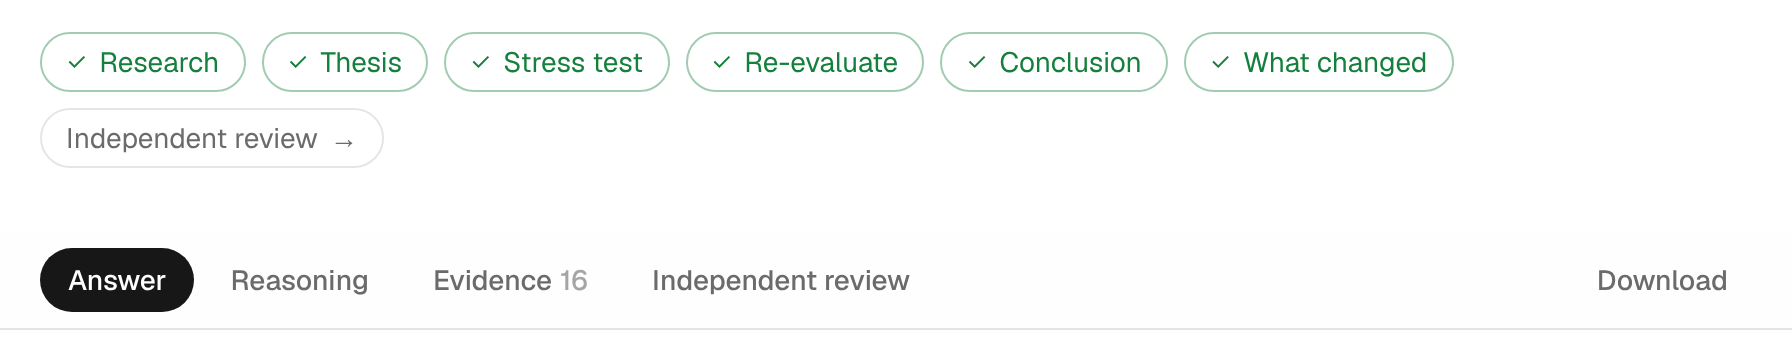
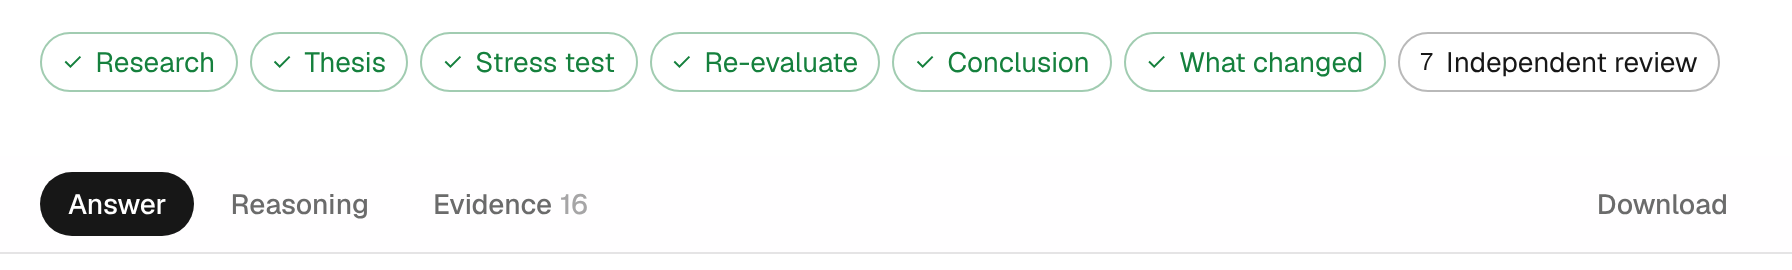
feat(s2): Independent review as the 7th step after What changed
- In the progress row, in the same style as the other steps (green check once the verdict is in);
  clicking it opens the review section at the end of the Answer view
- Remove the fourth tab; the tab bar is back to Answer, Reasoning and Evidence
- README text and the report-top screenshot updated to match

diff --git a/src/components/workstation.tsx b/src/components/workstation.tsx
@@ -76,7 +76,10 @@ function Bullets({ items }: { items: string[] }) {
   );
 }
 
-/** The progress row's Independent review link opens the workstation's review tab. */
+/**
+ * Independent review is the step after What changed. Its panel sits at the end of the Answer
+ * view, so clicking the step switches to Answer before scrolling to it.
+ */
 const SHOW_REVIEW = "crux:show-review";
 function showReview(event: MouseEvent<HTMLAnchorElement>) {
   event.preventDefault();
@@ -87,14 +90,14 @@ function showReview(event: MouseEvent<HTMLAnchorElement>) {
 export function Progress({ project, active, reviewable = false }: { project: ResearchProject | null; active: Stage | null; reviewable?: boolean }) {
   const done = new Set(project?.audit.map((a) => a.stage));
   return (
-    <ol className="flex flex-wrap gap-2 text-sm" aria-label="Pipeline progress">
+    <ol className="flex flex-wrap gap-1.5 text-sm" aria-label="Pipeline progress">
       {STAGES.map((s, i) => {
         const state = done.has(s.key) ? "done" : active === s.key ? "active" : "waiting";
         return (
           <li
             key={s.key}
             aria-current={state === "active" ? "step" : undefined}
-            className={`flex items-center gap-1.5 rounded-full border px-3 py-1 ${
+            className={`flex items-center gap-1.5 rounded-full border px-2.5 py-1 ${
               state === "done" ? "border-good/40 text-good" : state === "active" ? "animate-pulse border-foreground/40" : "border-line text-muted"
             }`}
           >
@@ -105,8 +108,17 @@ export function Progress({ project, active, reviewable = false }: { project: Res
       })}
       {reviewable && project?.status === "complete" && project.mode === "live" && (
         <li>
-          <a href="#independent-review" onClick={showReview} className="inline-flex items-center gap-1.5 rounded-full border border-line px-3 py-1 text-muted transition hover:border-foreground/40 hover:text-foreground">
-            Independent review <span aria-hidden="true">→</span>
+          <a
+            href="#independent-review"
+            onClick={showReview}
+            className={`flex items-center gap-1.5 rounded-full border px-2.5 py-1 transition ${
+              project.reppo?.status === "settled"
+                ? "border-good/40 text-good"
+                : "border-foreground/30 text-foreground hover:border-foreground/60"
+            }`}
+          >
+            <span className="font-mono text-xs">{project.reppo?.status === "settled" ? "✓" : STAGES.length + 1}</span>
+            Independent review
           </a>
         </li>
       )}
@@ -117,7 +129,7 @@ export function Progress({ project, active, reviewable = false }: { project: Res
 // ---------------------------------------------------------------------------------------
 // Views and the "Evidence" link that ties them together
 
-type View = "answer" | "reasoning" | "evidence" | "review";
+type View = "answer" | "reasoning" | "evidence";
 type Focus = { label: string; claimIds: string[] } | null;
 type Nav = {
   project: ResearchProject;
@@ -150,11 +162,10 @@ function EvidenceLink({ label, ids = [], text = "" }: { label: string; ids?: str
   );
 }
 
-const VIEWS: { key: View; label: string; short?: string }[] = [
+const VIEWS: { key: View; label: string }[] = [
   { key: "answer", label: "Answer" },
   { key: "reasoning", label: "Reasoning" },
   { key: "evidence", label: "Evidence" },
-  { key: "review", label: "Independent review", short: "Review" },
 ];
 
 /** `downloadable` is off while a run is still streaming, so nobody saves half a report. */
@@ -168,13 +179,11 @@ export function Workstation({ project, downloadable = true, reviewAvailable = tr
     if (next !== "evidence") setFocus(null);
     top.current?.scrollIntoView({ behavior: "smooth", block: "start" });
   };
-  // The review tab only exists where a review can be requested or one is already saved.
-  const reviewShown = project.mode === "live" && project.status === "complete" && (reviewAvailable || Boolean(project.reppo));
   useEffect(() => {
     const open = () => {
-      setView("review");
+      setView("answer");
       setFocus(null);
-      top.current?.scrollIntoView({ behavior: "smooth", block: "start" });
+      requestAnimationFrame(() => document.getElementById("independent-review")?.scrollIntoView({ behavior: "smooth", block: "start" }));
     };
     window.addEventListener(SHOW_REVIEW, open);
     return () => window.removeEventListener(SHOW_REVIEW, open);
@@ -199,26 +208,19 @@ export function Workstation({ project, downloadable = true, reviewAvailable = tr
         <div ref={top} className="scroll-mt-4">
           <PrintHeader project={project} />
           <div className="sticky top-0 z-10 -mx-5 mb-6 flex items-center gap-2 border-b border-line bg-background/90 px-5 py-2 backdrop-blur print:hidden">
-            <nav className="flex min-w-0 gap-0.5 overflow-x-auto [scrollbar-width:none] sm:gap-1" aria-label="Report views">
-              {VIEWS.filter((v) => v.key !== "review" || reviewShown).map((v) => (
+            <nav className="flex gap-1" aria-label="Report views">
+              {VIEWS.map((v) => (
                 <button
                   key={v.key}
                   type="button"
                   aria-current={view === v.key ? "page" : undefined}
                   onClick={() => go(v.key)}
-                  className={`shrink-0 whitespace-nowrap rounded-full px-2 py-1.5 text-[13px] font-medium transition sm:px-3.5 sm:text-sm ${
+                  className={`rounded-full px-3 py-1.5 text-sm font-medium transition max-[359px]:px-2.5 sm:px-3.5 ${
                     view === v.key ? "bg-foreground text-background" : "text-muted hover:text-foreground"
                   }`}
                 >
-                  {v.short ? (
-                    <>
-                      <span className="max-sm:hidden">{v.label}</span>
-                      <span className="sm:hidden">{v.short}</span>
-                    </>
-                  ) : (
-                    v.label
-                  )}
-                  {v.key === "evidence" && project.research ? <span className="ml-1 opacity-60 max-[400px]:hidden">{project.research.claims.length}</span> : null}
+                  {v.label}
+                  {v.key === "evidence" && project.research ? <span className="ml-1 opacity-60 max-[359px]:hidden">{project.research.claims.length}</span> : null}
                 </button>
               ))}
             </nav>
@@ -227,6 +229,7 @@ export function Workstation({ project, downloadable = true, reviewAvailable = tr
 
           <div className={panel("answer")}>
             <AnswerView project={project} />
+            <ReppoReviewPanel project={project} available={reviewAvailable} />
           </div>
           <div className={`${panel("reasoning")} print:mt-12`}>
             <ReasoningView project={project} />
@@ -234,11 +237,7 @@ export function Workstation({ project, downloadable = true, reviewAvailable = tr
           <div className={`${panel("evidence")} print:mt-12`}>
             <EvidenceView project={project} focus={focus} clearFocus={() => setFocus(null)} />
           </div>
-          {reviewShown && (
-            <div className={view === "review" ? "block" : "hidden"}>
-              <ReppoReviewPanel project={project} available={reviewAvailable} />
-            </div>
-          )}
+
         </div>
       </NavCtx.Provider>
     </RefsProvider>
@@ -276,7 +275,7 @@ function Downloads({ project }: { project: ResearchProject }) {
   }
 
   return (
-    <div className="ml-auto flex shrink-0 items-center gap-1">
+    <div className="ml-auto flex items-center gap-1">
       {failed && <span className="text-xs text-bad">PDF failed, try again</span>}
       <button
         type="button"

diff --git a/src/components/reppo-review.tsx b/src/components/reppo-review.tsx
@@ -45,7 +45,7 @@ export function ReppoReviewPanel({ project, available }: { project: ResearchProj
     finally { setBusy(false); }
   }
   return (
-    <section id="independent-review" className="scroll-mt-24 rounded-xl border border-line p-4 sm:p-5" aria-label="Independent research review">
+    <section id="independent-review" className="mt-6 scroll-mt-24 rounded-xl border border-line p-4 sm:p-5" aria-label="Independent research review">
       <h2 className="text-lg font-semibold">Independent review</h2>
       <p className="mt-2 text-sm text-muted">Powered by Reppo. An independent evaluation of the research and its reasoning, not proof that every fact is correct.</p>
       {!available ? (

diff --git a/README.md b/README.md
@@ -31,7 +31,7 @@ Built on [SERV Reasoning](https://docs.openserv.ai/serv-reasoning/why) (OpenServ
 
    About a minute in total, 6 SERV calls and 12 Tavily searches. The report is saved, so it can be reopened and reviewed later.
 4. Read the **Answer**, then open **Reasoning** and **Evidence**. Anything backed by facts has an **Evidence** link that opens just those facts.
-5. Open **Independent review**, the fourth tab (or the link after **What changed**), to send the report to Reppo and read its verdict.
+5. Click **Independent review**, the 7th step after **What changed**, to send the report to Reppo and read its verdict.
 6. Choose **Download** for the report as a PDF.
 
 ## The problem
@@ -86,7 +86,7 @@ Evidence links elsewhere in the report open this view filtered to the facts behi
 
 ### Independent review
 
-Crux's own stress test is SERV checking SERV. The **Independent review** tab sends the finished report to Reppo, whose evaluators judge the reasoning from outside, against five criteria:
+Crux's own stress test is SERV checking SERV. **Independent review**, the step after What changed, sends the finished report to Reppo, whose evaluators judge the reasoning from outside, against five criteria:
 
 1. Do the cited quotes support the report's key claims, without unsupported leaps?
 2. Does the stress test fairly address the strongest counter-evidence, risks and other explanations?
@@ -96,13 +96,13 @@ Crux's own stress test is SERV checking SERV. The **Independent review** tab sen
 
 How it works on a report:
 
-1. Open **Independent review**, enter the owner key, tick consent and choose **Request Reppo review**.
+1. Click **Independent review** in the steps at the top, enter the owner key, tick consent and choose **Request Reppo review**.
 2. Crux sends Reppo a compact trace of the report: the question, the thesis and its assumptions, the challenges, the re-evaluation, the conclusion, a balanced sample of facts with their quotes, and the source list.
 3. Reppo's evaluation takes at least 10 minutes. **Check for verdict** fetches it: accept, revise or reject, with a score, a confidence and a critique for each criterion. It's saved with the report.
 
 A verdict is independent feedback on the reasoning, not proof that every fact is correct.
 
-![The top of a report: the six stages, the Independent review link after What changed, and the Independent review tab](docs/screenshots/s2-report-after.png)
+![The top of a report: Research, Thesis, Stress test, Re-evaluate, Conclusion, What changed, then Independent review](docs/screenshots/s2-report-after.png)
 
 ### PDF report
 
@@ -133,13 +133,13 @@ Now that Crux is integrated with Reppo (Season 2), the report doesn't stop there
 
 **2. The top of a report**
 
-The first Crux ends at **What changed**, with three tabs:
+The first Crux ends at **What changed**:
 
-![The first Crux: the six stages ending at What changed, and the Answer, Reasoning and Evidence tabs](docs/screenshots/s2-report-before.png)
+![The first Crux: the six stages ending at What changed](docs/screenshots/s2-report-before.png)
 
-Crux with Reppo adds **Independent review** after What changed, and as a fourth tab:
+Crux with Reppo adds **Independent review** as the 7th step, right after What changed:
 
-![Crux with Reppo: the six stages, an Independent review link after What changed, and a fourth Independent review tab](docs/screenshots/s2-report-after.png)
+![Crux with Reppo: the six stages, then Independent review as the 7th step](docs/screenshots/s2-report-after.png)
 
 | | The first Crux | Crux with Reppo |
 | --- | --- | --- |
@@ -237,7 +237,7 @@ Two limits to be plain about: a fact's **stance** (for or against) and the **typ
 - **The report screenshots** are from the fifth run, shown exactly as it came back. 3 of the 31 extracted facts were dropped because their quotes weren't in the source text (one rested on a Statista page whose figures sit behind a paywall), and 1 is flagged because it states a sample size its quote doesn't contain.
 - **Reppo, live.** The first evaluation request was accepted by Reppo and is awaiting its verdict. On the main site, the connection check reports Reppo connected (API key accepted) and Redis connected.
 - **Unit tests** (`npm test`, 89 tests): quote verification, figures in digits and words, source labels and selection, balanced queries, ID and dash stripping, prompt-guard retries, the switch to sample data when credits run out, the full pipeline end to end, and the Reppo request, response parsing and owner-only access.
-- **The UI in a real browser** (headless Chromium): every view at 320, 360, 390 and 1200 px, light and dark, no sideways scrolling, PDF downloads, the demo question by arrow key and by tap, and the Independent review link and tab from every view.
+- **The UI in a real browser** (headless Chromium): every view at 320, 360, 390 and 1200 px, light and dark, no sideways scrolling, PDF downloads, the demo question by arrow key and by tap, and the Independent review step from every view.
 - **Type check, lint and production build** are clean (`npm run typecheck`, `npm run lint`, `npm run build`), and GitHub Actions runs all four on every pull request to `main`, without live API calls.
 
 ## Run it locally
@@ -286,7 +286,7 @@ npm run build
 4. Redeploy (**Deployments → ⋯ → Redeploy**), because variables only apply to deployments made after they're added.
 5. Check it at `/reppo-connect`: enter the owner key, and it confirms Reppo and Redis without submitting anything.
 
-A run takes about a minute, and the research API allows up to 300 seconds. Without Redis, reports aren't saved and the Independent review tab stays hidden; use **Download** to keep a report. If SERV or Tavily credits run out, Crux shows the sample report instead, with a notice saying so.
+A run takes about a minute, and the research API allows up to 300 seconds. Without Redis, reports aren't saved and the Independent review step stays hidden; use **Download** to keep a report. If SERV or Tavily credits run out, Crux shows the sample report instead, with a notice saying so.
 
 ## Project layout
 

diff --git a/docs/S2_TASKS.md b/docs/S2_TASKS.md
@@ -28,9 +28,9 @@
   - [x] The review section and link are hidden where reviews are impossible (no storage), so production no longer shows "This report was not saved on the server".
   - [x] README reworked: Season 2 positioning at the top, accurate status table, data/consent/cost, setup variables, project layout.
   - [x] Home page rewritten for Season 2: "Research that challenges itself." with "SERV Reasoning stress tests every answer. Reppo independently reviews it."
-  - [x] Independent review is now a fourth tab (Answer, Reasoning, Evidence, Independent review); the link after What changed opens it. Tabs fit on phones from 375px.
+  - [x] Independent review is the 7th step in the progress row, right after What changed, in the same style (✓ once the verdict is settled). Clicking it opens the review section at the end of the Answer view.
   - [x] Removed the "Check request (no charge)" button now that submission works.
-  - [x] README before/after uses two clean pairs: the home page (old vs new tagline) and the top of a report (ending at What changed with three tabs vs adding the Independent review link and tab). The degraded `s2-independent-review.png` was removed.
+  - [x] README before/after uses two clean pairs: the home page (old vs new tagline) and the top of a report (ending at What changed vs adding Independent review as the 7th step). The degraded `s2-independent-review.png` was removed.
 - [ ] **S2-11** Complete regression, live end-to-end tests, demo, review and merge.
 
 ## Current task
